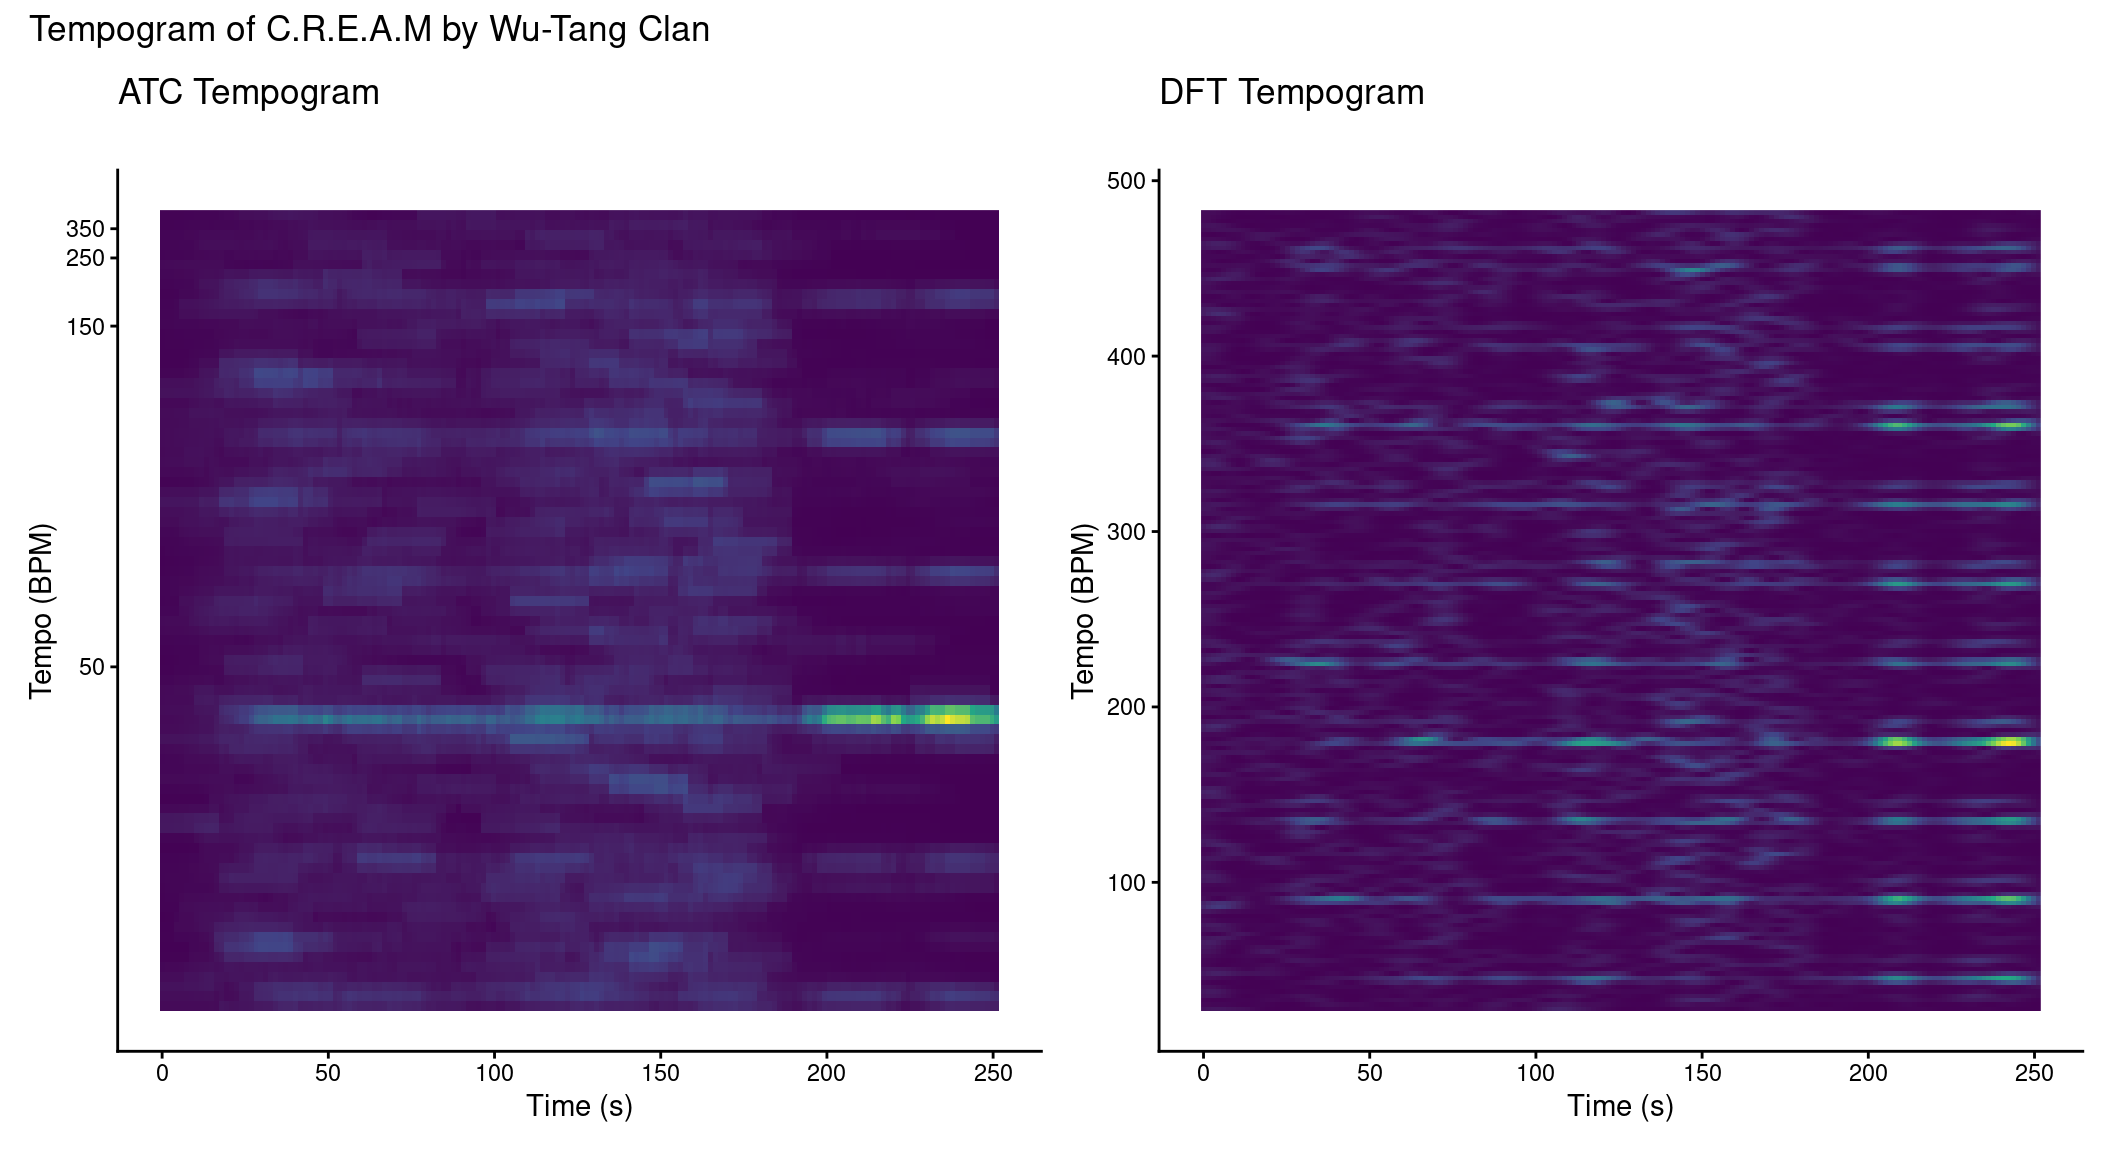
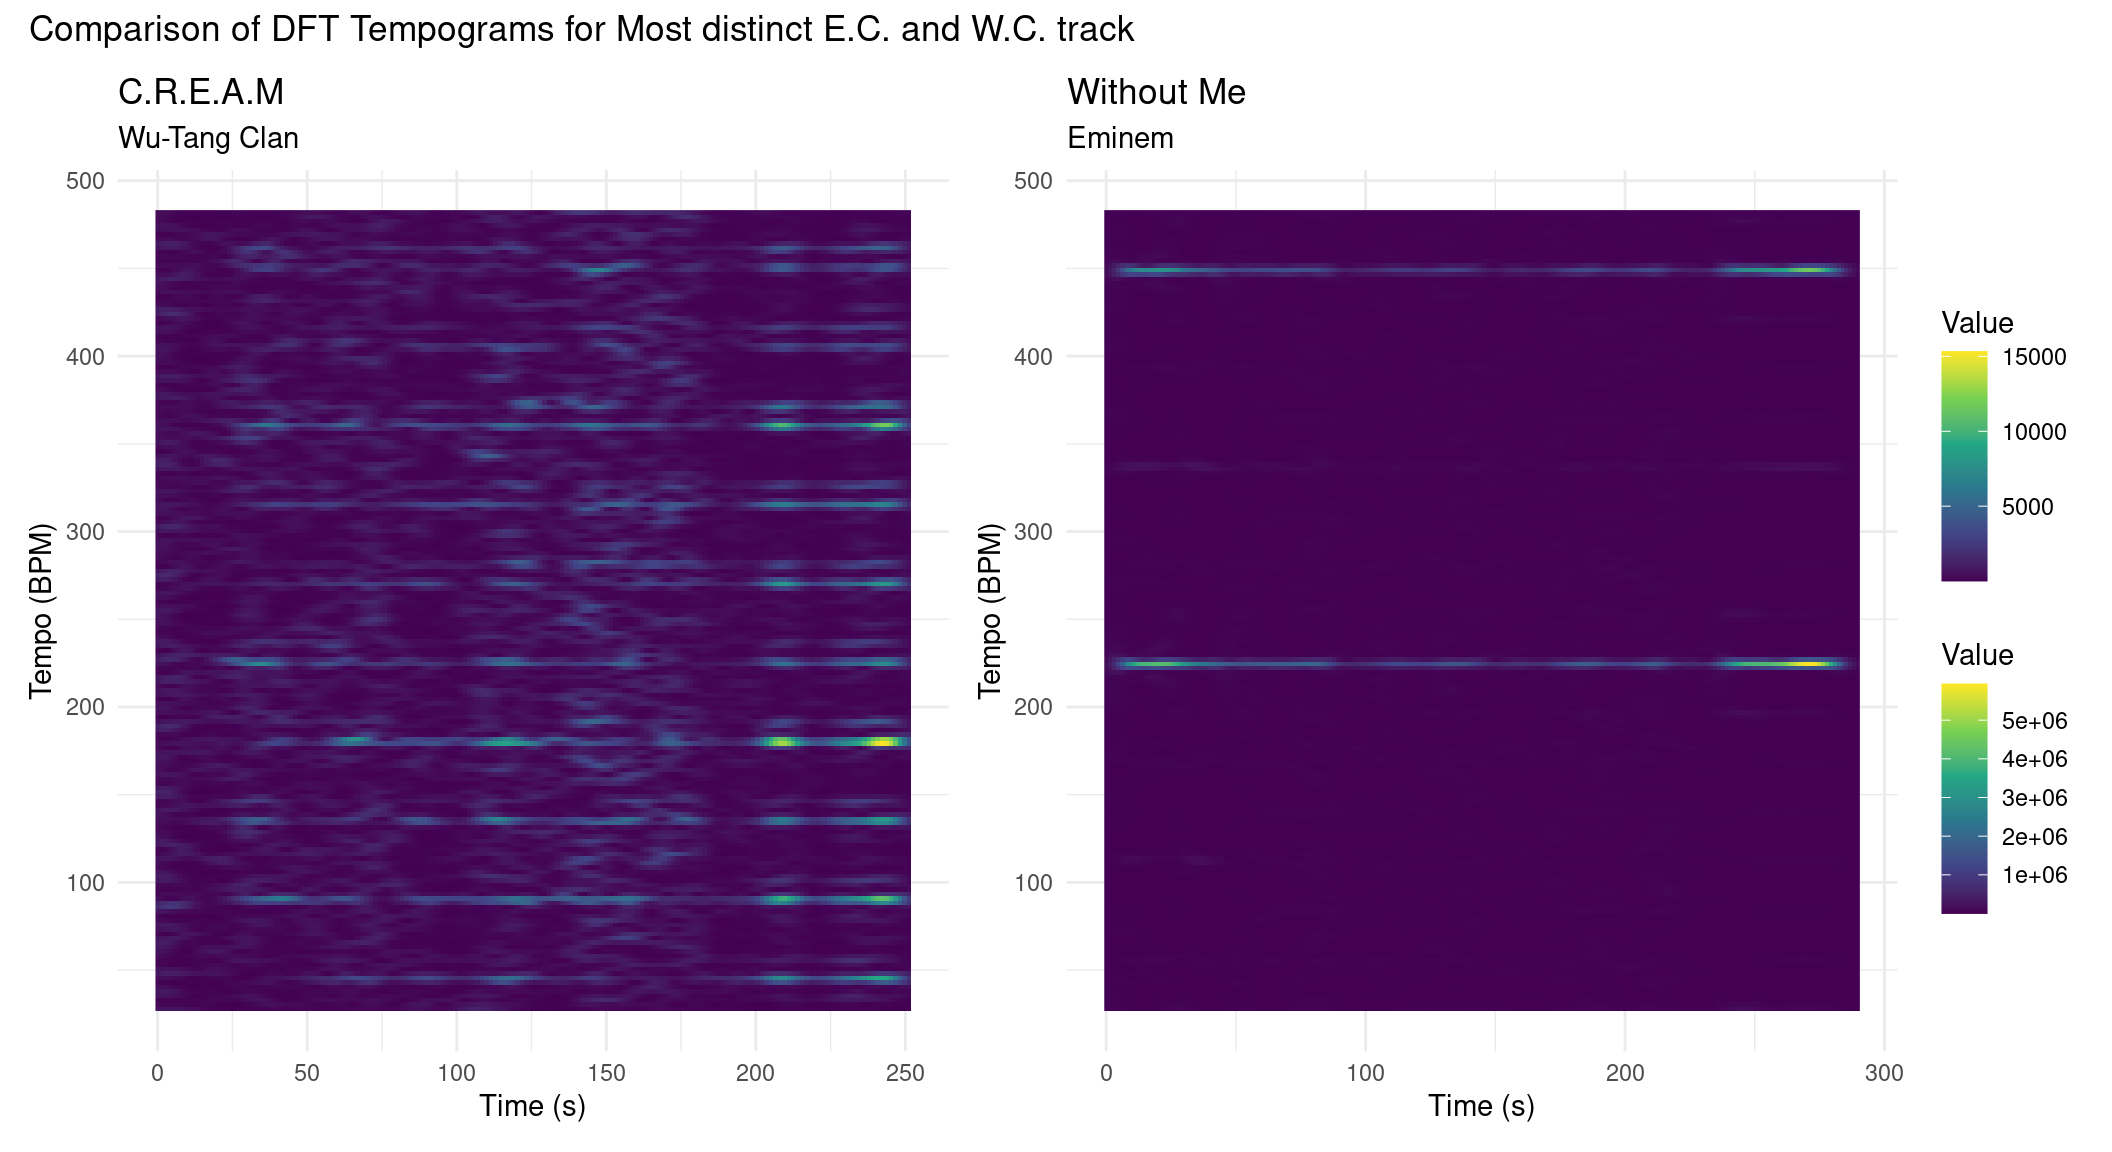
decriptions of tempo

diff --git a/docs/portfolio/chapter6.html b/docs/portfolio/chapter6.html
@@ -218,11 +218,14 @@ ul.task-list li input[type="checkbox"] {
 </header>
 
 
-<p>Chromagrams of all four songs, structured in per song, per side, total. So first a song and analyses, then of the other from that side, then comparing those. Then the other side and concluding what we see in total</p>
-<section id="listen-to-give-me-the-loot-by-the-notorius-b.i.g." class="level4">
-<h4 class="anchored" data-anchor-id="listen-to-give-me-the-loot-by-the-notorius-b.i.g.">Listen to Give me the Loot by The Notorius B.I.G.</h4>
+<p>Here, we dive into the tempo of our four songs. To make these tempograms, we have used both the autocorrelation (ATC) method, which is better at detecting lower BPM’s as the Direct Fourier Transform (DFT), which is better at higher tempo’s. The most typical songs are both slower, while the distinc songs are both faster.</p>
+<section id="listen-to-give-me-the-loot-and-bitch-please" class="level4">
+<h4 class="anchored" data-anchor-id="listen-to-give-me-the-loot-and-bitch-please">Listen to Give me the Loot and Bitch Please</h4>
 <audio controls="" style="width: 100%;">
 <source src="../gmtl.m4a" type="audio/mp4">
+</audio>
+<audio controls="" style="width: 100%;">
+<source src="../bp.m4a" type="audio/mp4">
 </audio>
 <div class="cell">
 <div class="cell-output-display">
@@ -233,11 +236,16 @@ ul.task-list li input[type="checkbox"] {
 </div>
 </div>
 </div>
+<p>In this tempogram, you can see both the tempogram of Give Me The Loot and Bitch Please. In the tempogram of GMTL, you see the most clear line at 45 BPM and a darker line at around 90 BPM. The latter is a more realistic tempo for the song. In addition, the lines are bright at the start, but quickly become much darker. This is explainable by more samples coming into the song</p>
+<p>The tempograph of Bitch Please picking up on more tempos, all quite as prominent as the other. When listening to the song, the tempo seems quite the same as in GMTL. When you look at the graphs side by side, you can see that the lines of GMTL and BP line up. BP also has a tempo of 95 BPM.</p>
 </section>
-<section id="listen-to-c.r.e.a.m-by-wu-tang-clan" class="level4">
-<h4 class="anchored" data-anchor-id="listen-to-c.r.e.a.m-by-wu-tang-clan">Listen to C.R.E.A.M by Wu-Tang Clan</h4>
+<section id="listen-to-c.r.e.a.m-and-without-me" class="level4">
+<h4 class="anchored" data-anchor-id="listen-to-c.r.e.a.m-and-without-me">Listen to C.R.E.A.M and Without Me</h4>
 <audio controls="" style="width: 100%;">
 <source src="../cream.m4a" type="audio/mp4">
+</audio>
+<audio controls="" style="width: 100%;">
+<source src="../wm.m4a" type="audio/mp4">
 </audio>
 <div class="cell">
 <div class="cell-output-display">
@@ -248,36 +256,8 @@ ul.task-list li input[type="checkbox"] {
 </div>
 </div>
 </div>
-</section>
-<section id="listen-to-bitch-please-by-snoop-dogg-xzibit" class="level4">
-<h4 class="anchored" data-anchor-id="listen-to-bitch-please-by-snoop-dogg-xzibit">Listen to Bitch Please by Snoop Dogg &amp; Xzibit</h4>
-<audio controls="" style="width: 100%;">
-<source src="../bp.m4a" type="audio/mp4">
-</audio>
-<div class="cell">
-<div class="cell-output-display">
-<div>
-<figure class="figure">
-<p><a href="chapter6_files/figure-html/unnamed-chunk-3-1.png" class="lightbox" data-gallery="quarto-lightbox-gallery-3"><img src="chapter6_files/figure-html/unnamed-chunk-3-1.png" class="img-fluid figure-img" width="1056"></a></p>
-</figure>
-</div>
-</div>
-</div>
-</section>
-<section id="listen-to-without-me-by-eminem" class="level4">
-<h4 class="anchored" data-anchor-id="listen-to-without-me-by-eminem">Listen to Without Me by Eminem</h4>
-<audio controls="" style="width: 100%;">
-<source src="../wm.m4a" type="audio/mp4">
-</audio>
-<div class="cell">
-<div class="cell-output-display">
-<div>
-<figure class="figure">
-<p><a href="chapter6_files/figure-html/unnamed-chunk-4-1.png" class="lightbox" data-gallery="quarto-lightbox-gallery-4"><img src="chapter6_files/figure-html/unnamed-chunk-4-1.png" class="img-fluid figure-img" width="1056"></a></p>
-</figure>
-</div>
-</div>
-</div>
+<p>In this tempogram, you can see both the tempogram of C.R.E.A.M. and Without Me. CREAM picks up on a spread of beats. The most prominent is at around 180 BPM. However, when listening, half time of 90 BPM feels more natural.</p>
+<p>The tempogram of without me is very clear. There are two lines, one at 220 BPM and one at 440 BPM. However, the actual BPM is at 120 BPM. The reason that the tempogram picks up on 220 BPM is probably due to the hi-hat, that hits on double speed.</p>
 
 
 </section>
